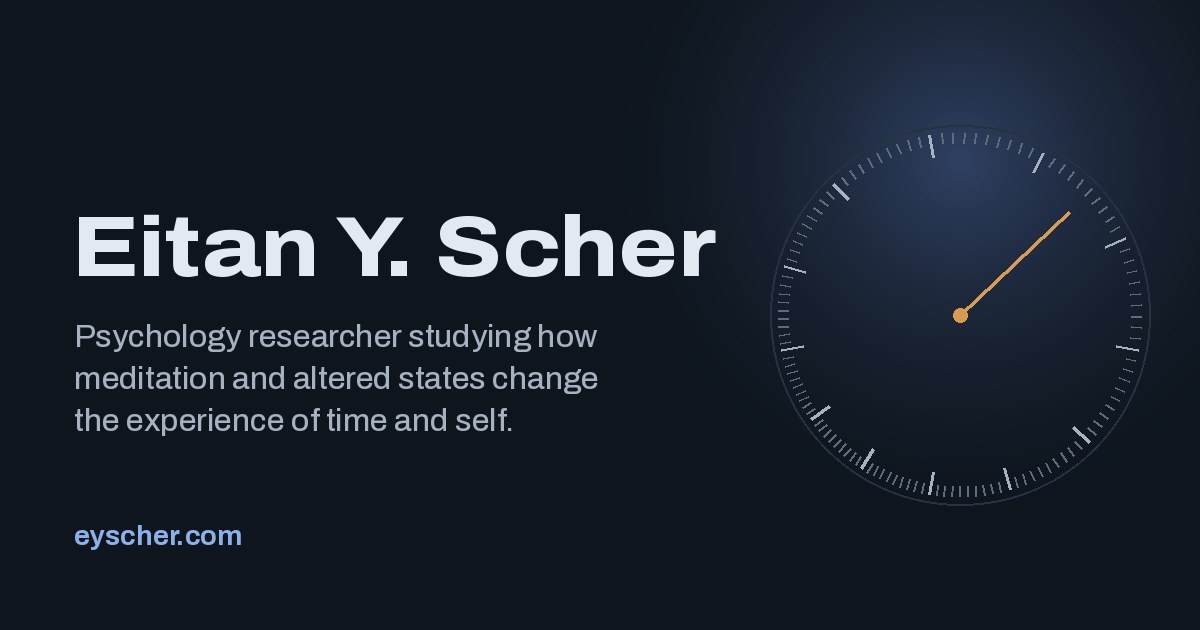
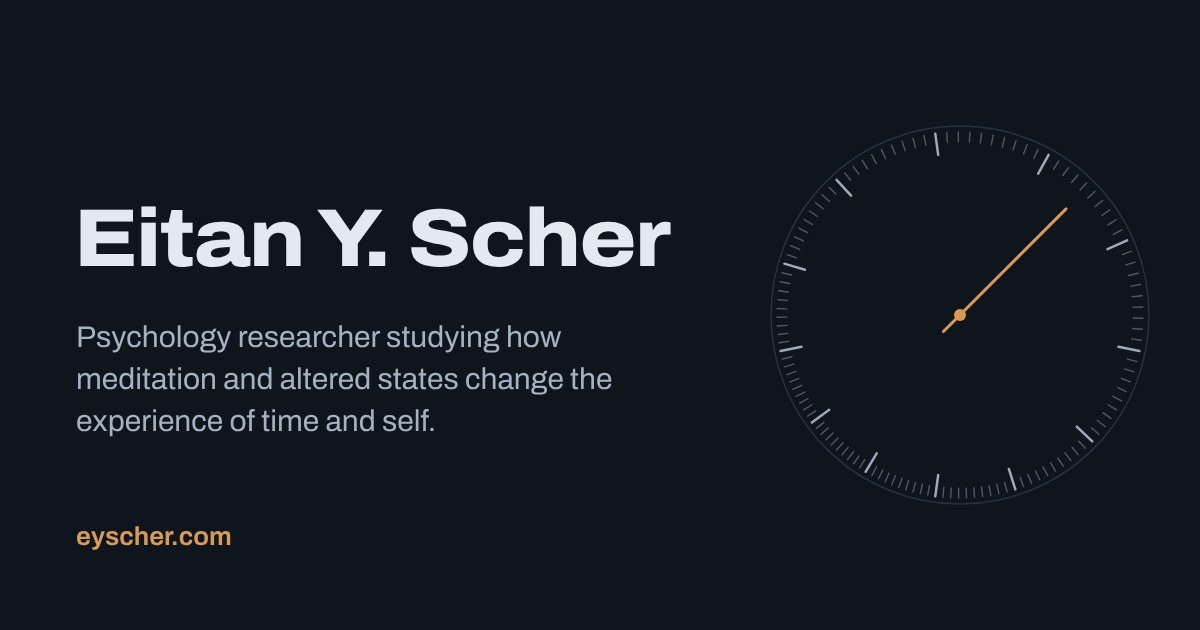
Plainer copy, amber accent, shorter "How I work"
- Rewrite nine headings and captions in plainer language
- Title-case the job titles in Experience, matching the CV
- Hero: "Trained" becomes "Education"; drop the Hebrew University line there
- Swap the blue accent for amber and remove the hero glow on both pages
- Cut "How I work" to two items per column
- Update favicon ring and link-preview image to match

Claude-Session: https://claude.ai/code/session_018XRG9SXpvHsiKTb4o3M6WS

diff --git a/_source/index.src.html b/_source/index.src.html
@@ -14,7 +14,7 @@
   --ink-3: #8592A3;
   --rule: #263240;
   --grid: #1D2733;
-  --accent: #8DB0EA;
+  --accent: #D99A52;
   --accent-ink: #0E151D;
   --med: #5F8BD4;
   --aud: #C77F3C;
@@ -28,19 +28,17 @@
   --film-print: #C9A15A;
   --shadow: rgba(0, 0, 0, 0.45);
   --amber: #D99A52;
-  --glow-a: rgba(95, 139, 212, 0.20);
-  --glow-b: rgba(217, 154, 82, 0.09);
   --display: "Archivo", "Helvetica Neue", Arial, sans-serif;
   --text: "Newsreader", Georgia, "Times New Roman", serif;
   color-scheme: dark;
 }
 :root[data-theme="light"] {
   --paper: #F1F4F7; --surface: #FBFCFD; --ink: #15202C; --ink-2: #46556A; --ink-3: #66758A;
-  --rule: #D2DAE3; --grid: #E2E8EE; --accent: #2B5DA8; --accent-ink: #FFFFFF;
+  --rule: #D2DAE3; --grid: #E2E8EE; --accent: #A0580F; --accent-ink: #FFFFFF;
   --med: #2B5DA8; --aud: #B8661C; --band: #E6ECF2; --z1: #D3DCE7; --z2: #E1E7EE; --z3: #F0F3F6;
   --chip: #E3E9F1; --film: #1B1F24; --film-edge: #2B3038; --film-print: #C9A15A;
   --shadow: rgba(15, 25, 40, 0.14);
-  --amber: #B8661C; --glow-a: rgba(43, 93, 168, 0.10); --glow-b: rgba(184, 102, 28, 0.06);
+  --amber: #A0580F;
   color-scheme: light;
 }
 
@@ -105,9 +103,6 @@ h1, h2, h3, h4 { font-family: var(--display); margin: 0; text-wrap: balance; col
 :root[data-theme="light"] .theme-btn .moon { display: none; }
 
 /* Hero: text on the left, a clock on the right whose ticks bunch and stretch the way remembered time does */
-.hero-band { background:
-  radial-gradient(60% 70% at 85% 20%, var(--glow-a), transparent 70%),
-  radial-gradient(40% 50% at 70% 85%, var(--glow-b), transparent 70%); }
 .hero { padding-block: clamp(56px, 9vw, 112px) clamp(48px, 7vw, 88px);
   display: grid; grid-template-columns: minmax(0, 1fr) clamp(240px, 27vw, 330px); column-gap: clamp(24px, 4vw, 56px); position: relative; }
 .hero > h1 { grid-column: 1 / -1; }
@@ -362,7 +357,7 @@ try { var savedTheme = localStorage.getItem("eys-theme"); if (savedTheme === "li
     <h1>Eitan Y. Scher</h1>
     <div class="dial-box" aria-hidden="true">
       <canvas class="dial" id="dial" width="660" height="660"></canvas>
-      <p class="dial-note">This clock keeps real time. Its ticks bunch and stretch, the way remembered time does.</p>
+      <p class="dial-note">The clock shows the real time, but its ticks are uneven, because time doesn’t always feel steady.</p>
     </div>
     <p class="lede">Psychology researcher and research ethics professional in Brooklyn. I study how meditation, awe and other altered states change the way we experience time and the self.</p>
     <dl class="facts">
@@ -370,8 +365,8 @@ try { var savedTheme = localStorage.getItem("eys-theme"); if (savedTheme === "li
       <dd>IRB Associate II, Icahn School of Medicine at Mount Sinai</dd>
       <dt>Before</dt>
       <dd>Clinical research coordinator in anesthesiology at Columbia University Irving Medical Center, studying delirium and recovery of consciousness with EEG</dd>
-      <dt>Trained</dt>
-      <dd>B.A. in Psychology, cum laude, Rutgers University (honors thesis with David Wilder); study abroad at the Hebrew University of Jerusalem</dd>
+      <dt>Education</dt>
+      <dd>B.A. in Psychology, cum laude, Rutgers University (honors thesis with David Wilder)</dd>
     </dl>
     <div class="actions">
       <a class="btn primary" href="#research">Read the reanalysis</a>
@@ -391,7 +386,7 @@ try { var savedTheme = localStorage.getItem("eys-theme"); if (savedTheme === "li
 
       <div class="stack measure">
         <p>In 2019, 214 Rutgers undergraduates listened to an eight-minute recording: either a guided meditation or a passage of <i>The Hobbit</i> audiobook. Afterward, with no warning that the question was coming, they estimated how long it had lasted.</p>
-        <p>This year I reanalyzed the original data from the raw files in R, adding effect sizes, Bayes factors and a full set of robustness checks. The main result held up. Two of my original explanations did not.</p>
+        <p>This year I reanalyzed the original data from the raw files in R, adding effect sizes, Bayes factors and a full set of robustness checks. The main result held up, but two of my original explanations for it did not.</p>
       </div>
 
       <div class="block">
@@ -497,8 +492,8 @@ try { var savedTheme = localStorage.getItem("eys-theme"); if (savedTheme === "li
       </div>
 
       <div class="block">
-        <h3>Could something boring explain it?</h3>
-        <p class="measure" style="margin-top:10px;color:var(--ink-2)">Each check asks whether a mundane problem could have produced the main result. None did.</p>
+        <h3>Robustness checks</h3>
+        <p class="measure" style="margin-top:10px;color:var(--ink-2)">I tested whether problems with the data or the analysis could account for the main result. It was still significant in every check.</p>
         <div class="tablewrap">
           <table class="widetable">
             <thead><tr><th>The worry</th><th>The check</th><th>Result</th></tr></thead>
@@ -541,7 +536,7 @@ try { var savedTheme = localStorage.getItem("eys-theme"); if (savedTheme === "li
       </div>
 
       <div class="tryit" id="tryit">
-        <h4>Now, a question for you</h4>
+        <h4>Try it yourself</h4>
         <p>You’ve been reading for a while. Without checking a clock, how long do you think you’ve been on this page?</p>
         <div class="choices" role="group" aria-label="Your estimate">
           <button class="choice" type="button" id="try-0" data-lo="0" data-hi="120">Under 2 min</button>
@@ -560,7 +555,7 @@ try { var savedTheme = localStorage.getItem("eys-theme"); if (savedTheme === "li
     <div class="wrap">
       <div class="sec-head">
         <h2 id="work-title">Other projects</h2>
-        <p>Clinical research, consciousness and the scholarship of spiritual experience.</p>
+        <p>Clinical research at Columbia, editorial work on a book about spiritual experience, and this site.</p>
       </div>
       <div class="work">
         <article>
@@ -608,15 +603,13 @@ try { var savedTheme = localStorage.getItem("eys-theme"); if (savedTheme === "li
     <div class="wrap">
       <div class="sec-head">
         <h2 id="methods-title">How I work</h2>
-        <p>Careful methods, and AI used where it makes the work faster without making it less checkable.</p>
+        <p>How I approach research, and where AI fits in.</p>
       </div>
       <div class="cols">
         <div>
           <h3>Methods and tools</h3>
           <div class="skills">
-            <div><h4>Design</h4><p>Factorial between-subjects experiments, retrospective and prospective timing tasks, and Qualtrics surveys with randomization, branching and custom JavaScript.</p></div>
-            <div><h4>Analysis</h4><p>ANOVA and ANCOVA, mixed models, permutation tests, Bayes factors and nonparametric tests, reported with effect sizes and confidence intervals.</p></div>
-            <div><h4>Software</h4><p>R and RStudio, SPSS, Python with PsychoPy, Excel, EndNote and Zotero.</p></div>
+            <div><h4>Research methods</h4><p>Between-subjects experiments, retrospective and prospective timing tasks, and Qualtrics surveys. I analyze data in R and SPSS with ANOVA, mixed models, Bayes factors and nonparametric tests, and report effect sizes and confidence intervals.</p></div>
             <div><h4>Clinical and regulatory</h4><p>EEG setup in the operating room, consent of surgical patients, and IRB review under 45 CFR 46, the Common Rule and ICH-GCP.</p></div>
           </div>
         </div>
@@ -624,20 +617,12 @@ try { var savedTheme = localStorage.getItem("eys-theme"); if (savedTheme === "li
           <h3>Working with AI</h3>
           <div class="practices">
             <div>
-              <h4>Code that checks itself</h4>
+              <h4>Analysis scripts</h4>
               <p>Claude helped me write the reanalysis script, and I ran it myself in RStudio. Every result line carries the number it should produce, so I could confirm each statistic as I went, and anyone can rerun it from the raw files.</p>
             </div>
             <div>
-              <h4>Sources opened, not trusted</h4>
+              <h4>Literature reviews</h4>
               <p>Literature summaries from Claude give me a starting list, and I open and check every source before citing it. Auditing my 2019 thesis this way turned up eight citation and terminology errors to fix before submission.</p>
-            </div>
-            <div>
-              <h4>Plain-language companions</h4>
-              <p>The results draft has a reading guide that explains every statistic in plain terms and anticipates reviewers' questions, so collaborators can check the reasoning as well as the numbers.</p>
-            </div>
-            <div>
-              <h4>Data hygiene</h4>
-              <p>Cross-checking the study's data files caught two condition codes swapped in one of them. I documented the problem in a README and rebuilt the analysis on the columns that were right in every file.</p>
             </div>
           </div>
         </div>
@@ -688,10 +673,10 @@ try { var savedTheme = localStorage.getItem("eys-theme"); if (savedTheme === "li
           <h3>Experience</h3>
           <div class="timeline">
             <div><span class="y">2024–now</span><span><span class="r">IRB Associate II</span><br><span class="o">Icahn School of Medicine at Mount Sinai</span></span></div>
-            <div><span class="y">2022–2024</span><span><span class="r">Independent researcher and tutor</span><br><span class="o">Literature reviews and data cleaning; tutoring in psychology, English, history and Hebrew</span></span></div>
-            <div><span class="y">2021–2022</span><span><span class="r">Educational assistant</span><br><span class="o">The Academies at Gerrard Berman Day School</span></span></div>
-            <div><span class="y">2019–2021</span><span><span class="r">Clinical research coordinator</span><br><span class="o">Columbia University Irving Medical Center, Anesthesiology</span></span></div>
-            <div><span class="y">2018–2019</span><span><span class="r">Honors researcher and research assistant</span><br><span class="o">Rutgers University: Wilder Lab, DBT-RU, Social Cognition Lab, Cognitive Development Lab</span></span></div>
+            <div><span class="y">2022–2024</span><span><span class="r">Independent Researcher and Tutor</span><br><span class="o">Literature reviews and data cleaning; tutoring in psychology, English, history and Hebrew</span></span></div>
+            <div><span class="y">2021–2022</span><span><span class="r">Educational Assistant</span><br><span class="o">The Academies at Gerrard Berman Day School</span></span></div>
+            <div><span class="y">2019–2021</span><span><span class="r">Clinical Research Coordinator</span><br><span class="o">Columbia University Irving Medical Center, Anesthesiology</span></span></div>
+            <div><span class="y">2018–2019</span><span><span class="r">Honors Researcher and Research Assistant</span><br><span class="o">Rutgers University: Wilder Lab, DBT-RU, Social Cognition Lab, Cognitive Development Lab</span></span></div>
           </div>
         </div>
       </div>

diff --git a/index.html b/index.html
@@ -29,7 +29,7 @@
   --ink-3: #8592A3;
   --rule: #263240;
   --grid: #1D2733;
-  --accent: #8DB0EA;
+  --accent: #D99A52;
   --accent-ink: #0E151D;
   --med: #5F8BD4;
   --aud: #C77F3C;
@@ -43,19 +43,17 @@
   --film-print: #C9A15A;
   --shadow: rgba(0, 0, 0, 0.45);
   --amber: #D99A52;
-  --glow-a: rgba(95, 139, 212, 0.20);
-  --glow-b: rgba(217, 154, 82, 0.09);
   --display: "Archivo", "Helvetica Neue", Arial, sans-serif;
   --text: "Newsreader", Georgia, "Times New Roman", serif;
   color-scheme: dark;
 }
 :root[data-theme="light"] {
   --paper: #F1F4F7; --surface: #FBFCFD; --ink: #15202C; --ink-2: #46556A; --ink-3: #66758A;
-  --rule: #D2DAE3; --grid: #E2E8EE; --accent: #2B5DA8; --accent-ink: #FFFFFF;
+  --rule: #D2DAE3; --grid: #E2E8EE; --accent: #A0580F; --accent-ink: #FFFFFF;
   --med: #2B5DA8; --aud: #B8661C; --band: #E6ECF2; --z1: #D3DCE7; --z2: #E1E7EE; --z3: #F0F3F6;
   --chip: #E3E9F1; --film: #1B1F24; --film-edge: #2B3038; --film-print: #C9A15A;
   --shadow: rgba(15, 25, 40, 0.14);
-  --amber: #B8661C; --glow-a: rgba(43, 93, 168, 0.10); --glow-b: rgba(184, 102, 28, 0.06);
+  --amber: #A0580F;
   color-scheme: light;
 }
 
@@ -120,9 +118,6 @@ h1, h2, h3, h4 { font-family: var(--display); margin: 0; text-wrap: balance; col
 :root[data-theme="light"] .theme-btn .moon { display: none; }
 
 /* Hero: text on the left, a clock on the right whose ticks bunch and stretch the way remembered time does */
-.hero-band { background:
-  radial-gradient(60% 70% at 85% 20%, var(--glow-a), transparent 70%),
-  radial-gradient(40% 50% at 70% 85%, var(--glow-b), transparent 70%); }
 .hero { padding-block: clamp(56px, 9vw, 112px) clamp(48px, 7vw, 88px);
   display: grid; grid-template-columns: minmax(0, 1fr) clamp(240px, 27vw, 330px); column-gap: clamp(24px, 4vw, 56px); position: relative; }
 .hero > h1 { grid-column: 1 / -1; }
@@ -378,7 +373,7 @@ try { var savedTheme = localStorage.getItem("eys-theme"); if (savedTheme === "li
     <h1>Eitan Y. Scher</h1>
     <div class="dial-box" aria-hidden="true">
       <canvas class="dial" id="dial" width="660" height="660"></canvas>
-      <p class="dial-note">This clock keeps real time. Its ticks bunch and stretch, the way remembered time does.</p>
+      <p class="dial-note">The clock shows the real time, but its ticks are uneven, because time doesn’t always feel steady.</p>
     </div>
     <p class="lede">Psychology researcher and research ethics professional in Brooklyn. I study how meditation, awe and other altered states change the way we experience time and the self.</p>
     <dl class="facts">
@@ -386,8 +381,8 @@ try { var savedTheme = localStorage.getItem("eys-theme"); if (savedTheme === "li
       <dd>IRB Associate II, Icahn School of Medicine at Mount Sinai</dd>
       <dt>Before</dt>
       <dd>Clinical research coordinator in anesthesiology at Columbia University Irving Medical Center, studying delirium and recovery of consciousness with EEG</dd>
-      <dt>Trained</dt>
-      <dd>B.A. in Psychology, cum laude, Rutgers University (honors thesis with David Wilder); study abroad at the Hebrew University of Jerusalem</dd>
+      <dt>Education</dt>
+      <dd>B.A. in Psychology, cum laude, Rutgers University (honors thesis with David Wilder)</dd>
     </dl>
     <div class="actions">
       <a class="btn primary" href="#research">Read the reanalysis</a>
@@ -407,7 +402,7 @@ try { var savedTheme = localStorage.getItem("eys-theme"); if (savedTheme === "li
 
       <div class="stack measure">
         <p>In 2019, 214 Rutgers undergraduates listened to an eight-minute recording: either a guided meditation or a passage of <i>The Hobbit</i> audiobook. Afterward, with no warning that the question was coming, they estimated how long it had lasted.</p>
-        <p>This year I reanalyzed the original data from the raw files in R, adding effect sizes, Bayes factors and a full set of robustness checks. The main result held up. Two of my original explanations did not.</p>
+        <p>This year I reanalyzed the original data from the raw files in R, adding effect sizes, Bayes factors and a full set of robustness checks. The main result held up, but two of my original explanations for it did not.</p>
       </div>
 
       <div class="block">
@@ -513,8 +508,8 @@ try { var savedTheme = localStorage.getItem("eys-theme"); if (savedTheme === "li
       </div>
 
       <div class="block">
-        <h3>Could something boring explain it?</h3>
-        <p class="measure" style="margin-top:10px;color:var(--ink-2)">Each check asks whether a mundane problem could have produced the main result. None did.</p>
+        <h3>Robustness checks</h3>
+        <p class="measure" style="margin-top:10px;color:var(--ink-2)">I tested whether problems with the data or the analysis could account for the main result. It was still significant in every check.</p>
         <div class="tablewrap">
           <table class="widetable">
             <thead><tr><th>The worry</th><th>The check</th><th>Result</th></tr></thead>
@@ -557,7 +552,7 @@ try { var savedTheme = localStorage.getItem("eys-theme"); if (savedTheme === "li
       </div>
 
       <div class="tryit" id="tryit">
-        <h4>Now, a question for you</h4>
+        <h4>Try it yourself</h4>
         <p>You’ve been reading for a while. Without checking a clock, how long do you think you’ve been on this page?</p>
         <div class="choices" role="group" aria-label="Your estimate">
           <button class="choice" type="button" id="try-0" data-lo="0" data-hi="120">Under 2 min</button>
@@ -576,7 +571,7 @@ try { var savedTheme = localStorage.getItem("eys-theme"); if (savedTheme === "li
     <div class="wrap">
       <div class="sec-head">
         <h2 id="work-title">Other projects</h2>
-        <p>Clinical research, consciousness and the scholarship of spiritual experience.</p>
+        <p>Clinical research at Columbia, editorial work on a book about spiritual experience, and this site.</p>
       </div>
       <div class="work">
         <article>
@@ -624,15 +619,13 @@ try { var savedTheme = localStorage.getItem("eys-theme"); if (savedTheme === "li
     <div class="wrap">
       <div class="sec-head">
         <h2 id="methods-title">How I work</h2>
-        <p>Careful methods, and AI used where it makes the work faster without making it less checkable.</p>
+        <p>How I approach research, and where AI fits in.</p>
       </div>
       <div class="cols">
         <div>
           <h3>Methods and tools</h3>
           <div class="skills">
-            <div><h4>Design</h4><p>Factorial between-subjects experiments, retrospective and prospective timing tasks, and Qualtrics surveys with randomization, branching and custom JavaScript.</p></div>
-            <div><h4>Analysis</h4><p>ANOVA and ANCOVA, mixed models, permutation tests, Bayes factors and nonparametric tests, reported with effect sizes and confidence intervals.</p></div>
-            <div><h4>Software</h4><p>R and RStudio, SPSS, Python with PsychoPy, Excel, EndNote and Zotero.</p></div>
+            <div><h4>Research methods</h4><p>Between-subjects experiments, retrospective and prospective timing tasks, and Qualtrics surveys. I analyze data in R and SPSS with ANOVA, mixed models, Bayes factors and nonparametric tests, and report effect sizes and confidence intervals.</p></div>
             <div><h4>Clinical and regulatory</h4><p>EEG setup in the operating room, consent of surgical patients, and IRB review under 45 CFR 46, the Common Rule and ICH-GCP.</p></div>
           </div>
         </div>
@@ -640,20 +633,12 @@ try { var savedTheme = localStorage.getItem("eys-theme"); if (savedTheme === "li
           <h3>Working with AI</h3>
           <div class="practices">
             <div>
-              <h4>Code that checks itself</h4>
+              <h4>Analysis scripts</h4>
               <p>Claude helped me write the reanalysis script, and I ran it myself in RStudio. Every result line carries the number it should produce, so I could confirm each statistic as I went, and anyone can rerun it from the raw files.</p>
             </div>
             <div>
-              <h4>Sources opened, not trusted</h4>
+              <h4>Literature reviews</h4>
               <p>Literature summaries from Claude give me a starting list, and I open and check every source before citing it. Auditing my 2019 thesis this way turned up eight citation and terminology errors to fix before submission.</p>
-            </div>
-            <div>
-              <h4>Plain-language companions</h4>
-              <p>The results draft has a reading guide that explains every statistic in plain terms and anticipates reviewers' questions, so collaborators can check the reasoning as well as the numbers.</p>
-            </div>
-            <div>
-              <h4>Data hygiene</h4>
-              <p>Cross-checking the study's data files caught two condition codes swapped in one of them. I documented the problem in a README and rebuilt the analysis on the columns that were right in every file.</p>
             </div>
           </div>
         </div>
@@ -704,10 +689,10 @@ try { var savedTheme = localStorage.getItem("eys-theme"); if (savedTheme === "li
           <h3>Experience</h3>
           <div class="timeline">
             <div><span class="y">2024–now</span><span><span class="r">IRB Associate II</span><br><span class="o">Icahn School of Medicine at Mount Sinai</span></span></div>
-            <div><span class="y">2022–2024</span><span><span class="r">Independent researcher and tutor</span><br><span class="o">Literature reviews and data cleaning; tutoring in psychology, English, history and Hebrew</span></span></div>
-            <div><span class="y">2021–2022</span><span><span class="r">Educational assistant</span><br><span class="o">The Academies at Gerrard Berman Day School</span></span></div>
-            <div><span class="y">2019–2021</span><span><span class="r">Clinical research coordinator</span><br><span class="o">Columbia University Irving Medical Center, Anesthesiology</span></span></div>
-            <div><span class="y">2018–2019</span><span><span class="r">Honors researcher and research assistant</span><br><span class="o">Rutgers University: Wilder Lab, DBT-RU, Social Cognition Lab, Cognitive Development Lab</span></span></div>
+            <div><span class="y">2022–2024</span><span><span class="r">Independent Researcher and Tutor</span><br><span class="o">Literature reviews and data cleaning; tutoring in psychology, English, history and Hebrew</span></span></div>
+            <div><span class="y">2021–2022</span><span><span class="r">Educational Assistant</span><br><span class="o">The Academies at Gerrard Berman Day School</span></span></div>
+            <div><span class="y">2019–2021</span><span><span class="r">Clinical Research Coordinator</span><br><span class="o">Columbia University Irving Medical Center, Anesthesiology</span></span></div>
+            <div><span class="y">2018–2019</span><span><span class="r">Honors Researcher and Research Assistant</span><br><span class="o">Rutgers University: Wilder Lab, DBT-RU, Social Cognition Lab, Cognitive Development Lab</span></span></div>
           </div>
         </div>
       </div>

diff --git a/photos.html b/photos.html
@@ -22,18 +22,16 @@
    Same tokens and dark-first theme as the main page. */
 :root {
   --paper: #0E151D; --surface: #131C27; --ink: #E3E9F0; --ink-2: #A6B2C1; --ink-3: #8592A3;
-  --rule: #263240; --accent: #8DB0EA; --accent-ink: #0E151D; --amber: #D99A52;
+  --rule: #263240; --accent: #D99A52; --accent-ink: #0E151D; --amber: #D99A52;
   --scrim: rgba(6, 9, 13, 0.985); --chip: #1E2835;
-  --glow-a: rgba(95, 139, 212, 0.16); --glow-b: rgba(217, 154, 82, 0.10);
   --display: "Archivo", "Helvetica Neue", Arial, sans-serif;
   --text: "Newsreader", Georgia, "Times New Roman", serif;
   color-scheme: dark;
 }
 :root[data-theme="light"] {
   --paper: #F1F4F7; --surface: #FBFCFD; --ink: #15202C; --ink-2: #46556A; --ink-3: #66758A;
-  --rule: #D2DAE3; --accent: #2B5DA8; --accent-ink: #FFFFFF; --amber: #B8661C;
+  --rule: #D2DAE3; --accent: #A0580F; --accent-ink: #FFFFFF; --amber: #A0580F;
   --scrim: rgba(241, 244, 247, 0.985); --chip: #E3E9F1;
-  --glow-a: rgba(43, 93, 168, 0.08); --glow-b: rgba(184, 102, 28, 0.06);
   color-scheme: light;
 }
 * { box-sizing: border-box; }
@@ -71,7 +69,6 @@ h1, h2, h3 { font-family: var(--display); margin: 0; text-wrap: balance; }
 }
 
 /* Title: the name set wide, the way the eye takes in a whole scene */
-.intro { background: radial-gradient(55% 80% at 80% 10%, var(--glow-a), transparent 70%), radial-gradient(35% 60% at 15% 100%, var(--glow-b), transparent 70%); }
 .intro .wrap { padding-block: clamp(56px, 9vw, 120px) clamp(32px, 5vw, 56px); max-width: 1120px; }
 .intro h1 { font-size: clamp(48px, 10vw, 128px); font-weight: 800; font-stretch: 125%; line-height: 0.92; letter-spacing: -0.03em; }
 .intro p { margin-top: 24px; font-size: clamp(19px, 2vw, 23px); color: var(--ink-2); max-width: 38em; line-height: 1.5; }

diff --git a/_source/photos.src.html b/_source/photos.src.html
@@ -7,18 +7,16 @@
    Same tokens and dark-first theme as the main page. */
 :root {
   --paper: #0E151D; --surface: #131C27; --ink: #E3E9F0; --ink-2: #A6B2C1; --ink-3: #8592A3;
-  --rule: #263240; --accent: #8DB0EA; --accent-ink: #0E151D; --amber: #D99A52;
+  --rule: #263240; --accent: #D99A52; --accent-ink: #0E151D; --amber: #D99A52;
   --scrim: rgba(6, 9, 13, 0.985); --chip: #1E2835;
-  --glow-a: rgba(95, 139, 212, 0.16); --glow-b: rgba(217, 154, 82, 0.10);
   --display: "Archivo", "Helvetica Neue", Arial, sans-serif;
   --text: "Newsreader", Georgia, "Times New Roman", serif;
   color-scheme: dark;
 }
 :root[data-theme="light"] {
   --paper: #F1F4F7; --surface: #FBFCFD; --ink: #15202C; --ink-2: #46556A; --ink-3: #66758A;
-  --rule: #D2DAE3; --accent: #2B5DA8; --accent-ink: #FFFFFF; --amber: #B8661C;
+  --rule: #D2DAE3; --accent: #A0580F; --accent-ink: #FFFFFF; --amber: #A0580F;
   --scrim: rgba(241, 244, 247, 0.985); --chip: #E3E9F1;
-  --glow-a: rgba(43, 93, 168, 0.08); --glow-b: rgba(184, 102, 28, 0.06);
   color-scheme: light;
 }
 * { box-sizing: border-box; }
@@ -56,7 +54,6 @@ h1, h2, h3 { font-family: var(--display); margin: 0; text-wrap: balance; }
 }
 
 /* Title: the name set wide, the way the eye takes in a whole scene */
-.intro { background: radial-gradient(55% 80% at 80% 10%, var(--glow-a), transparent 70%), radial-gradient(35% 60% at 15% 100%, var(--glow-b), transparent 70%); }
 .intro .wrap { padding-block: clamp(56px, 9vw, 120px) clamp(32px, 5vw, 56px); max-width: 1120px; }
 .intro h1 { font-size: clamp(48px, 10vw, 128px); font-weight: 800; font-stretch: 125%; line-height: 0.92; letter-spacing: -0.03em; }
 .intro p { margin-top: 24px; font-size: clamp(19px, 2vw, 23px); color: var(--ink-2); max-width: 38em; line-height: 1.5; }
